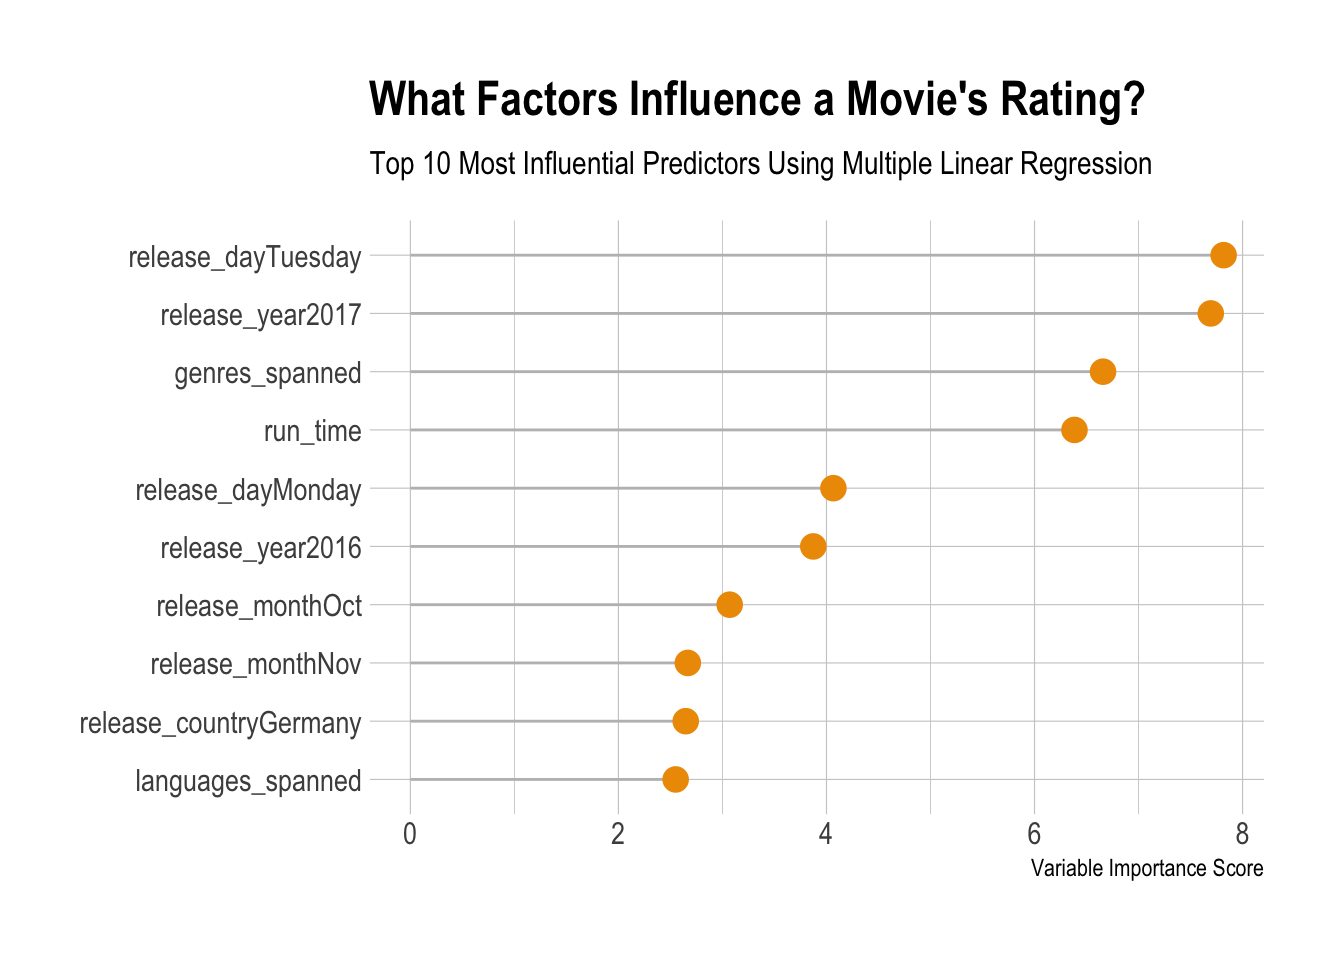
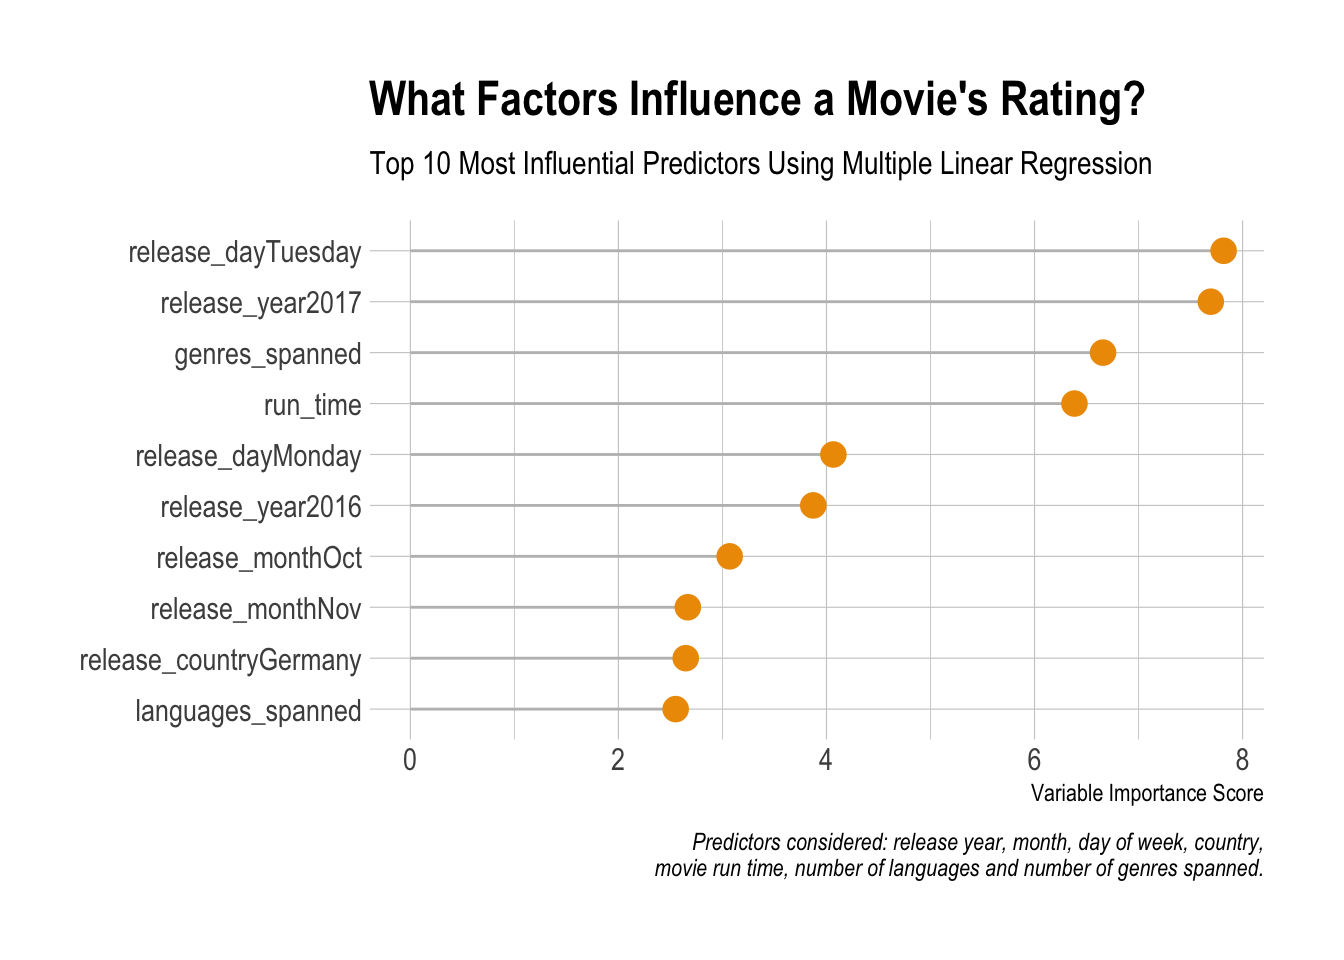
Commit

diff --git a/README.md b/README.md
@@ -123,7 +123,9 @@ tibble(
     x = NULL,
     y = "Variable Importance Score",
     title = "What Factors Influence a Movie's Rating?",
-    subtitle = "Top 10 Most Influential Predictors Using Multiple Linear Regression"
+    subtitle = "Top 10 Most Influential Predictors Using Multiple Linear Regression",
+    caption = "Predictors considered: release year, month, day of week, country,
+    movie run time, number of languages and number of genres spanned."
   ) + 
   theme_ipsum()
 ```
